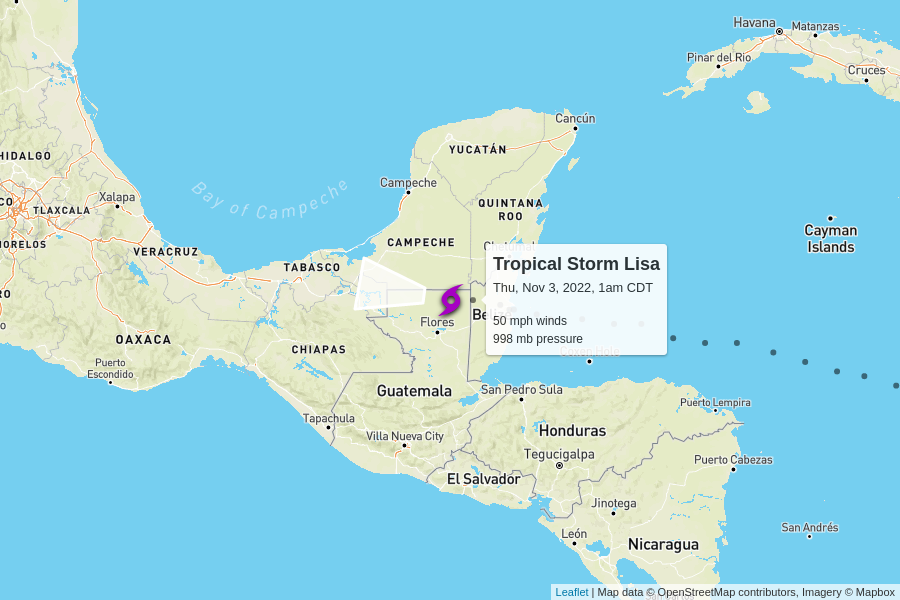
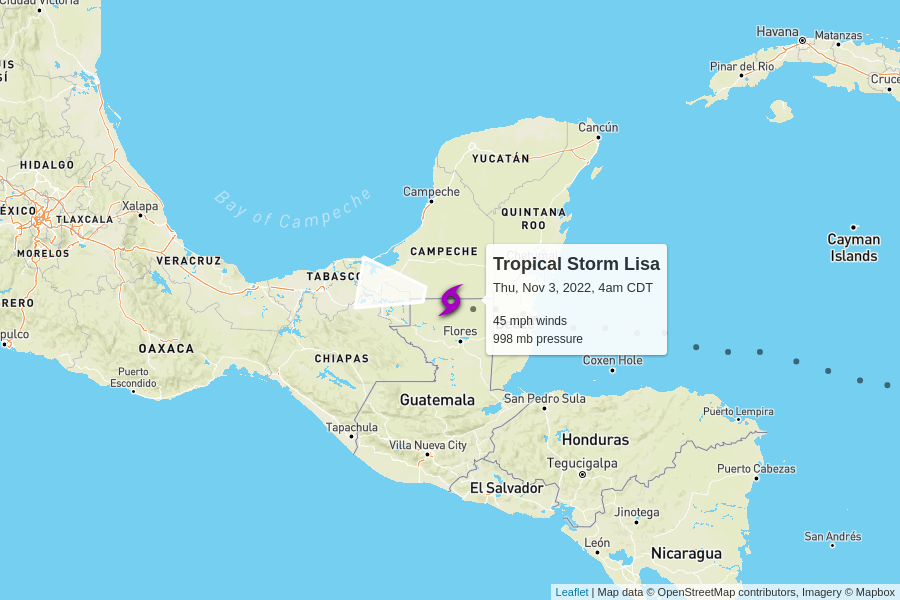
automatic update

diff --git a/docs/index.html b/docs/index.html
@@ -100,7 +100,7 @@
         <td colspan="6" class="storm category-0" >
           <h2>
             Tropical Storm Lisa
-            <p class="updated">last updated <span data-time>2022-11-03T06:00:00.000Z</span></p>
+            <p class="updated">last updated <span data-time>2022-11-03T09:00:00.000Z</span></p>
           </h2>
         </td>
       </tr>
@@ -115,10 +115,10 @@
       </tr>
       <tr>
         <td class="spacer"></td>
-        <td>50 mph</td>
+        <td>45 mph</td>
         <td>998 mb</td>
         <td>
-          12 mph to the west
+          10 mph to the west
           <br/>
           <span style="display: inline-block; font-size: 1.5em; transform: rotate(280deg);">↑</span>
         </td>
@@ -144,7 +144,7 @@
         <td colspan="6" class="storm category-1" >
           <h2>
             Hurricane Martin - Category 1
-            <p class="updated">last updated <span data-time>2022-11-03T03:00:00.000Z</span></p>
+            <p class="updated">last updated <span data-time>2022-11-03T09:00:00.000Z</span></p>
           </h2>
         </td>
       </tr>
@@ -160,11 +160,11 @@
       <tr>
         <td class="spacer"></td>
         <td>85 mph</td>
-        <td>973 mb</td>
+        <td>968 mb</td>
         <td>
-          39 mph to the northeast
+          46 mph to the north-northeast
           <br/>
-          <span style="display: inline-block; font-size: 1.5em; transform: rotate(40deg);">↑</span>
+          <span style="display: inline-block; font-size: 1.5em; transform: rotate(30deg);">↑</span>
         </td>
         <td><a href="https://raw.githubusercontent.com/mgwalker/atlantic-hurricanes/main/data/csv/AL162022.csv">AL162022.csv</a></td>
         <td><a href="https://www.nhc.noaa.gov/archive/2022/MARTIN.shtml?">NHC advisories</a></td>
